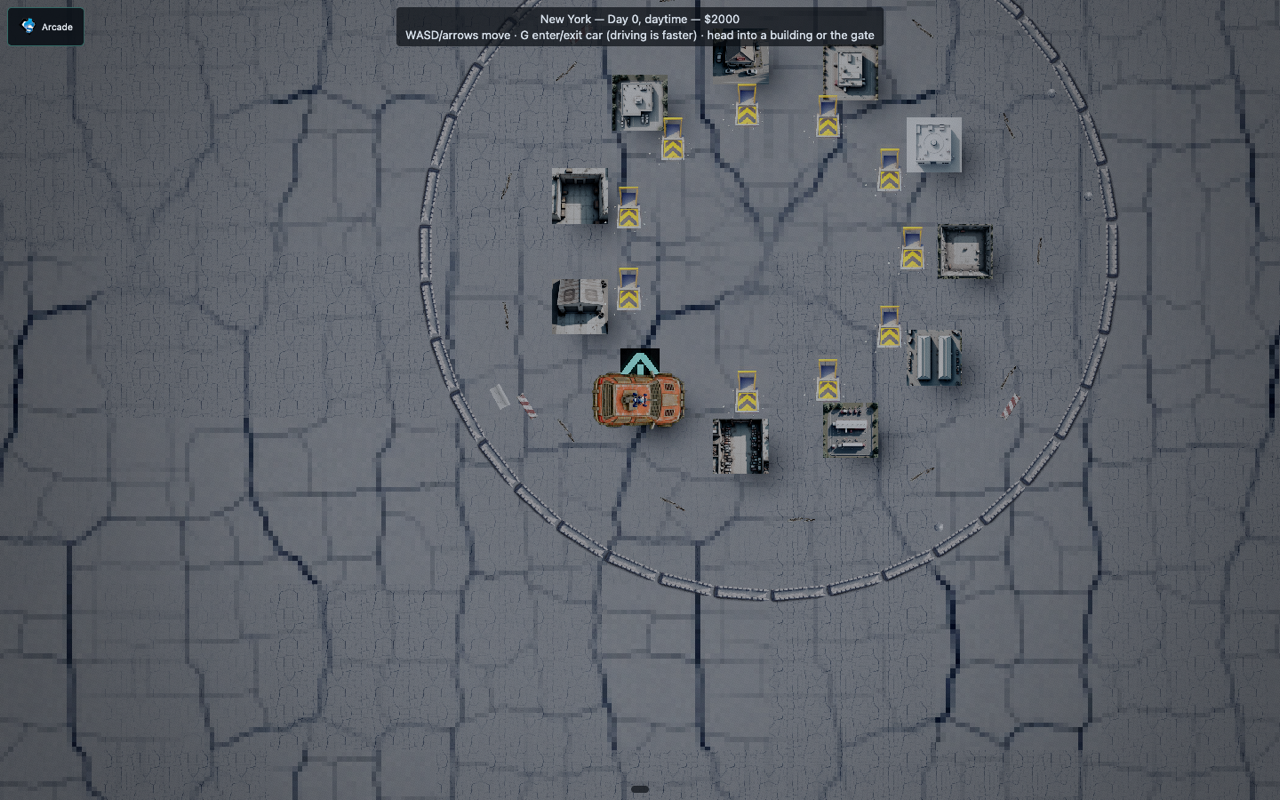
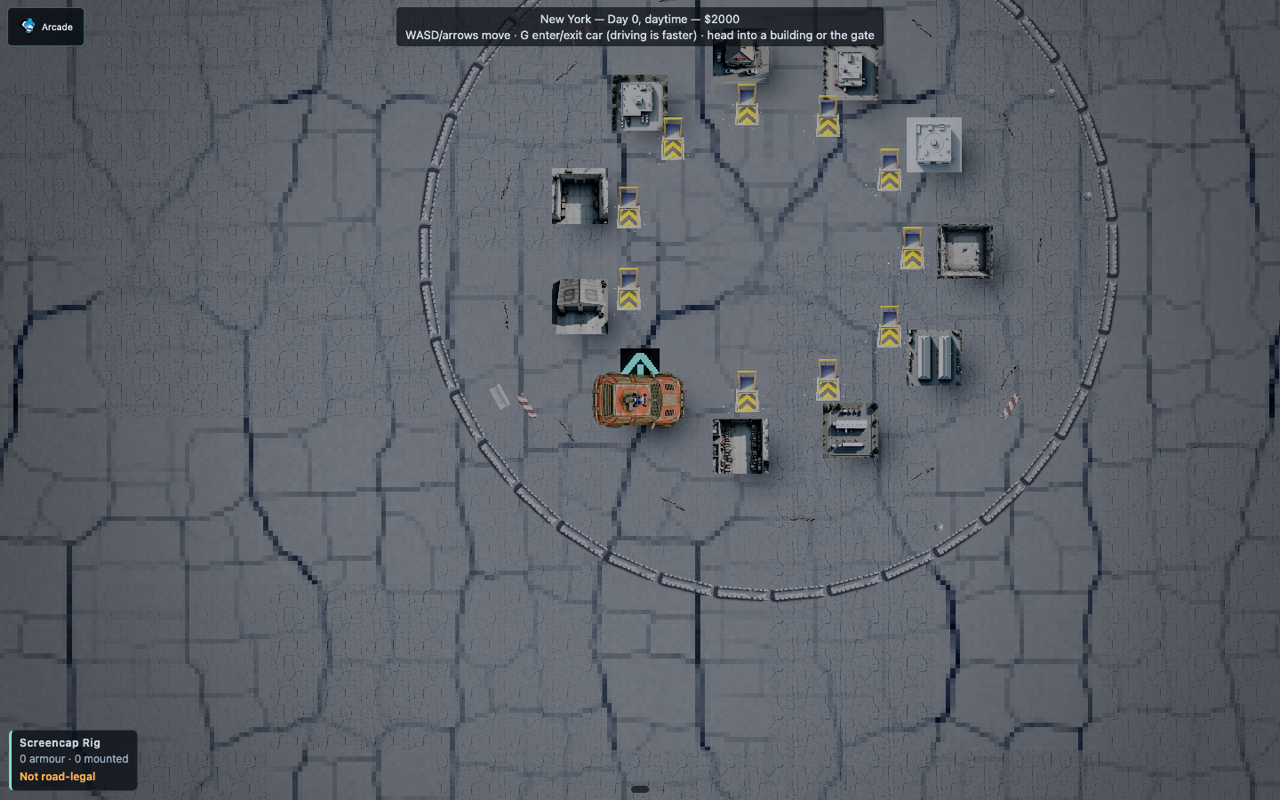
fix(hud): the condition panel was answering one question in two languages 🛞
Iteration 29. Reviewer: z-ai/glm-5v-turbo.

- "Critical status indicators are represented by tiny colored dots (approx 4px)
  that are difficult to distinguish from one another or read quickly while the
  vehicle is moving ... replace the dot indicators with wider horizontal bars
  (health bars) that visibly deplete."

  Real, and the sharpest framing of this ask yet, because it named the actual
  defect rather than the symptom. Iteration 25 put bars on ARMOUR and left TYRES
  on dots, so the condition panel was answering the same question — how much of
  this system is left — in two different visual grammars depending on which group
  you looked at. Consistency inside one panel matters more than either treatment
  on its own.

  A tyre also wears down gradually and is almost never in the unfitted state,
  which makes it the best candidate in the whole panel for the pre-attentive read
  a 4px dot cannot give. Tyre rows now carry the same bar, the same `currentColor`
  fill, and the same guarded ratio as armour.

  A process note worth keeping: the iteration-25 test that counts armour bars
  started counting TYRE bars the moment these shipped, because both used one
  shared fill class. The test caught it — the second time a test written to pin a
  fix has caught the NEXT change breaking that pin — so the tyre fill now carries
  its own modifier class and the armour query filters it out explicitly.
[…]

Changed region(s): [[0.0, 0.9062, 0.125, 1.0]]

diff --git a/tests/unit/hud.test.ts b/tests/unit/hud.test.ts
@@ -498,7 +498,9 @@ describe('vehicle condition panel', () => {
     (fitted.design as { armor: Record<string, number> }).armor = { FRONT: 4, REAR: 4, LEFT: 4, RIGHT: 0, UNDERBODY: 4 };
     const { root } = render(baseSnapshot({ vehicle: fitted }));
 
-    const bars = byClass(root, 'hud-armor-bar__fill');
+    // Scoped to ARMOUR bars: tyre fills carry their own modifier class precisely
+    // so this query cannot start counting them when tyres grew bars too.
+    const bars = byClass(root, 'hud-armor-bar__fill').filter((b) => !b.hasClass('hud-armor-bar__fill--tire'));
     // Four fitted facings, one unfitted (right, max 0).
     expect(bars).toHaveLength(4);
     const scales = bars.map((b) => Number(/scaleX\(([\d.]+)\)/.exec(b.attrs.get('style') ?? '')?.[1])).sort((a, b) => a - b);
@@ -516,15 +518,31 @@ describe('vehicle condition panel', () => {
     const { root } = render(
       baseSnapshot({ vehicle: baseVehicle({ armorDP: { FRONT: 9, REAR: -2, LEFT: 1, RIGHT: 0, UNDERBODY: 0 } }, []) }),
     );
-    const scales = byClass(root, 'hud-armor-bar__fill').map((b) =>
-      Number(/scaleX\(([\d.]+)\)/.exec(b.attrs.get('style') ?? '')?.[1]),
-    );
+    const scales = byClass(root, 'hud-armor-bar__fill')
+      .filter((b) => !b.hasClass('hud-armor-bar__fill--tire'))
+      .map((b) => Number(/scaleX\(([\d.]+)\)/.exec(b.attrs.get('style') ?? '')?.[1]));
     for (const scale of scales) {
       expect(Number.isFinite(scale)).toBe(true);
       expect(scale).toBeGreaterThanOrEqual(0);
       expect(scale).toBeLessThanOrEqual(1);
     }
   });
+
+
+  it('gives every tyre a depleting bar, on the same visual grammar as armour', () => {
+    // A review called the condition indicators "tiny colored dots (approx 4px)
+    // that are difficult to distinguish from one another or read quickly while
+    // the vehicle is moving". Armour got bars in iteration 25; if tyres kept dots
+    // the panel would be answering the same question in two visual grammars.
+    const { root } = render(baseSnapshot({ vehicle: baseVehicle({}, []) }));
+    const tireBars = byClass(root, 'hud-armor-bar__fill--tire');
+    expect(tireBars).toHaveLength(4);
+    // baseVehicle's tyreDP is 4/4 across, so every bar is full.
+    for (const bar of tireBars) {
+      expect(/scaleX\(1\.0000\)/.test(bar.attrs.get('style') ?? '')).toBe(true);
+    }
+  });
+
 
   it('renders cargo integrity as its own raw magnitude, not a fabricated percentage of an invented max', () => {
     // No ruleset table defines a cargo integrity max, and sim/damage.ts's

diff --git a/src/ui/hud.ts b/src/ui/hud.ts
@@ -547,14 +547,33 @@ function buildDamageFacings(doc: HudDocument, vehicle: VehicleState, driver: Hud
   vehicle.tireDP.forEach((dp, i) => {
     const label = TIRE_LABELS[i] ?? t('ui.hud.tireFallbackLabel', { index: i + 1 });
     const state = damageState(dp, tireMax);
-    tireList.appendChild(
-      el(
-        doc,
-        'li',
-        { class: 'hud-tire', 'data-state': state, 'aria-label': t('ui.hud.tireArmor', { label, current: dp, max: tireMax }) },
-        `${label}: ${damageLabel(dp, tireMax)}`,
-      ),
+    const tireRow = el(
+      doc,
+      'li',
+      { class: 'hud-tire', 'data-state': state, 'aria-label': t('ui.hud.tireArmor', { label, current: dp, max: tireMax }) },
     );
+    tireRow.appendChild(el(doc, 'span', {}, `${label}: `));
+    tireRow.appendChild(el(doc, 'span', { class: 'hud-tire-value' }, damageLabel(dp, tireMax)));
+    // A tyre wears down gradually, so unlike armour it is almost never in the
+    // unfitted state — which makes it the best candidate in the whole panel for
+    // the pre-attentive read a 4px status dot cannot give. A review said the
+    // indicators are "tiny colored dots (approx 4px) that are difficult to
+    // distinguish from one another or read quickly while the vehicle is moving",
+    // and asked to "replace the dot indicators with wider horizontal bars that
+    // visibly deplete". That is the same argument that put bars on the armour
+    // rows in iteration 25, and the panel should speak ONE language: if armour
+    // has a bar, a tyre must too, or the player is reading two different
+    // visual grammars for the same question.
+    //
+    // Same fill as the armour bar — `currentColor`, so it inherits the row's
+    // existing state colour and cannot disagree with the number beside it.
+    const tireBar = el(doc, 'span', { class: 'hud-armor-bar hud-armor-bar--tire' });
+    const tireFill = el(doc, 'span', { class: 'hud-armor-bar__fill hud-armor-bar__fill--tire' });
+    const tireFrac = tireMax > 0 ? Math.max(0, Math.min(1, dp / tireMax)) : 0;
+    tireFill.setAttribute('style', `transform:scaleX(${tireFrac.toFixed(4)})`);
+    tireBar.appendChild(tireFill);
+    tireRow.appendChild(tireBar);
+    tireList.appendChild(tireRow);
   });
   panel.appendChild(el(doc, 'h3', { class: 'hud-condition-group' }, t('ui.hud.groupTyres')));
   panel.appendChild(tireList);

diff --git a/src/ui/hud.css b/src/ui/hud.css
@@ -566,6 +566,16 @@
   overflow: hidden;
 }
 
+/* Tyre bars sit beside the fraction rather than in the armour grid's slot.
+ *
+ * The fill keeps the base class for styling but carries its own modifier so a
+ * query for armour bars cannot silently start counting tyre bars — which is
+ * exactly what happened to the iteration-25 test the first time this shipped. */
+.hud-armor-bar--tire {
+  width: 30px;
+  height: 3px;
+}
+
 .hud-armor-bar__fill {
   position: absolute;
   inset: 0;

diff --git a/.opencode/ralph-loop.local.md b/.opencode/ralph-loop.local.md
@@ -1,6 +1,6 @@
 ---
 active: true
-iteration: 28
+iteration: 29
 maxIterations: 100
 sessionId: ses_f14a7ff23ffeCvOeqyAPPjegV6
 ---
@@ -9,7 +9,7 @@ lets do a infiniate improving loop each time ask a random state of the art visio
 
 ## Log
 
-Reviewers asked (28 of 82 vision models):
+Reviewers asked (29 of 82 vision models):
 1. google/gemini-3.8-flash      -> title wordmark, constructor (3 bugs incl. one I missed), city motorway-through-wall
 2. openai/gpt-5.4-mini         -> radar instrument, condition dashboard, player/opponent contrast, title hierarchy
 3. qwen/qwen3.5-122b-a10b      -> road lane markings (carried x2), preview/menu contrast, radar rings (claim WRONG - checked)
@@ -571,6 +571,49 @@ TOOLING - the review harness got audited by its own failure this round:
        earlier review, but filling it is a layout change and the ask here is
        about content that is present;
      - radar: 19th report on the same element.
+
+29. z-ai/glm-5v-turbo -> 1 REAL (and it was the panel speaking two languages at
+     once), 1 FALSE by a factor of four, 3 in known classes:
+     - "Critical status indicators are represented by tiny colored dots (approx
+       4px) that are difficult to distinguish from one another or read quickly
+       while the vehicle is moving ... replace the dot indicators with wider
+       horizontal bars (health bars) that visibly deplete." REAL, and the sharpest
+       framing of this ask yet, because it identified the actual defect: iteration
+       25 put bars on ARMOUR and left TYRES on dots, so the condition panel was
+       answering the same question - how much of this system is left - in two
+       different visual grammars depending on which group you looked at. A tyre
+       wears down gradually and is almost never in the unfitted state, which makes
+       it the best candidate in the whole panel for the pre-attentive read a 4px
+       dot cannot give. Tyre rows now carry the same bar, the same
+       currentColor fill, and the same guarded ratio.
+       Worth recording as a process note: the iteration-25 test that counts
+       armour bars immediately started counting TYRE bars too, because both used
+       one shared fill class. The test caught it - that is the second time a test
+       written to pin a fix has caught the NEXT change breaking that pin - so the
+       tyre fill now carries its own modifier class and the armour query filters
+       it out explicitly.
+     - "The progress bar is a thin 1-2px black line ... near-zero contrast ... it
+       looks like a scratch on the camera lens." FALSE by a factor of four on the
+       measurement: scanning a column through the bar, the dark track spans y=46
+       to y=50 with its border at 45 and 51, so the rendered bar is 8px including
+       both borders. The 0%-fill perception was already measured and recorded in
+       iteration 22 as the honest report of zero miles driven.
+     - "The city is a narrow band of mid-tone greys ... no lighting model or
+       shadow to define edges." FOURTH report of this class. There IS a lighting
+       model - buildings have analytic contact shadows, tightened in iteration 17
+       precisely so separation does not ride on the art (measured gaps 17.6 and
+       7.9), and iteration 24 measured the three floors at 144/58/101 luma.
+     - "The radar is a large opaque black disc ... visually identical to a hole
+       punched in the UI layer." 20th report on the same element. The suggested
+       fix - dim the widget to 30-40% when no contacts are present - is a new one
+       and is DECLINED on the same reasoning as iteration 28: a practice arena with
+       no opponents would render a nearly invisible instrument, and a player
+       arriving at combat would have to learn a state change to trust the panel
+       they are relying on. Standing by at a fixed weight is the honest read of
+       "this is an instrument, and right now it is reporting nothing".
+     - "Collapse the ten weapon rows into a summary." Fifth/sixth report of this
+       class; the rows are addressed by index and 0-9 typing, so collapsing them
+       would break selection and mounting.
 
 DEFERRED (real, documented, not bugs):
 - Ground blockiness: NEAREST sampler is REQUIRED (no atlas gutters, linear would
